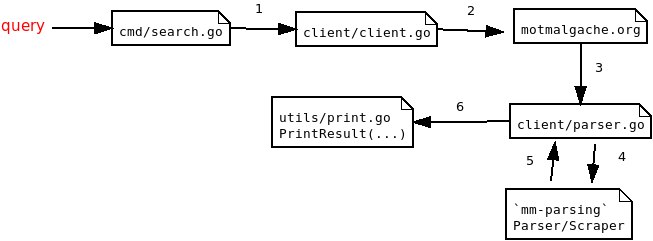
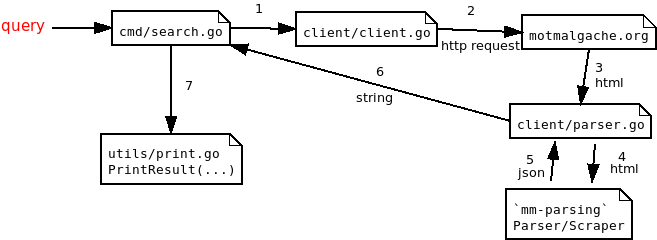
wip

diff --git a/utils/print.go b/utils/print.go
@@ -2,9 +2,9 @@ package utils
 
 import (
     "fmt"
-    "log"
     "regexp"
     "strings"
+    "mm/datatype"
 )
 
 var Reset = "\033[0m" 
@@ -86,48 +86,13 @@ func PrintUnListItem(title, content string) string {
 
 // Print the final content, which should be the result of the HTML parsing
 // Input: an empty interface. This should contain the key `k` and value `v` of the JSON
-func PrintResult(inp interface{}, debug bool) {
+func PrintResult(parsedContent datatype.ParsedContent, debug bool) {
 
-    // Assert and convert `inp` to a map
-    m := inp.(map[string]interface{})
-
-    for k, v := range m {
-
-	// Remove eventual whitespaces 
-	trimedK := strings.TrimSpace(k)
-
-	switch vv := v.(type) {
-	    case string:
-
-		// Split into multiple line for section 'Analogues'
-		if (strings.Compare(trimedK, "Analogues") == 0) {
-		    fmt.Println(PrintUnListItem(trimedK, vv))
-		    break
-		}
-
-		// Default print mode for all section except these mentioned above
-		// Do not print 'Mots composés'
-		if (strings.Compare(trimedK, "Mots composés") != 0) {
-		    fmt.Println(PrintKeyAndValue(trimedK, vv, false))
-		    break
-		}
-
-	    case interface{}:
-		// Section `Morphologie` contains a sub section and should use this
-		keys, values := GetKeysValues(vv, debug)
-
-		if debug {
-		    log.Fatalf("Value of keys and value in the PrintResult:\n%s\n%s\n", keys, values)
-		}
-
-		// fmt.Printf("%s\n", PrintSubSection(trimedK, keys, values))
-		break
-
-	    default:
-		log.Fatalf("%s dia type tsy mbola hitako hatr@izay niainana!", k)
-
-	    }
-
-    }
+    PrintKeyAndValue("partie du discours", parsedContent.Discours, false)
+    PrintKeyAndValue("Explication en malgache", parsedContent.MlgExplication, false)
+    PrintKeyAndValue("Explication en french", parsedContent.FrExplication, false)
+    PrintKeyAndValue("Vocabulaire", parsedContent.Vocabulaire, false)
+    PrintKeyAndValue("Morphologie", parsedContent.Morphologie, false)
+    PrintKeyAndValue("Analogue", parsedContent.Analogue, false)
 
 }

diff --git a/cmd/search.go b/cmd/search.go
@@ -7,6 +7,7 @@ import (
     "log"
     "mm/client"
     "mm/utils"
+    "mm/datatype"
     "os"
     "encoding/json"
 )
@@ -32,14 +33,17 @@ var searchCmd = &cobra.Command{
       if len(args) > 1 {
 	  fmt.Println("Warning: 'mm' can only handle one keyword so it will only consider the first one!")
       }
+
+      // Search the user's query to motmalgache.org
       htmlResult := client.Search(args[0])
-      // `jsonStr` contains a JSON
+
+      // extract the JSON from the html result in string format
       jsonStr := client.ParseString(htmlResult) 
 
-      // Decoding content of the JSON
+      // Decoding the jsonContent of the JSON
       // we are decoding arbitrary data because the JSON contains unicode chars
       // See https://go.dev/blog/json#decoding-arbitrary-data
-      var fmtResp interface{}
+      var jsonContent datatype.ParsedContent
       jsonErr := json.Unmarshal([]byte(jsonStr), &fmtResp)
 
       if Debug {
@@ -57,7 +61,7 @@ var searchCmd = &cobra.Command{
       }
 
       // Print the result
-      utils.PrintResult(fmtResp, Debug)
+      utils.PrintResult(jsonContent, Debug)
 
       utils.PrintRuler()
 

diff --git a/client/client.go b/client/client.go
@@ -30,15 +30,6 @@ func Health() int {
     return resCode
 }
 
-// request Data
-type Data struct {
-    requestData string
-}
-
-func (data Data) Read(p []byte) (n int, err error) {
-    return len(p), err
-}
-
 // Make a request to motmalgache.org
 // Input: string, a search keyword
 // Return: string, the html content of the result

diff --git a/datatype/content.go b/datatype/content.go
@@ -1,4 +1,4 @@
-package utils
+package datatype
 
 // Represent the JSON returned by `mm-parsing`
 type ParsedContent struct {

diff --git a/docs/arch.md b/docs/arch.md
@@ -7,4 +7,5 @@ Flow:
 3. HTML file is returned and handled by `client/parser.go`
 4. HTML file is send to `mm-parsing` script
 5. Parsing script return the data in JSON
-6. `client/parser.go` convert the JSON to string and `PrintResult(...)` function print the final output
+6. `client/parser.go` convert the JSON to string and return the string
+7. `PrintResult(...)` function print the final output
